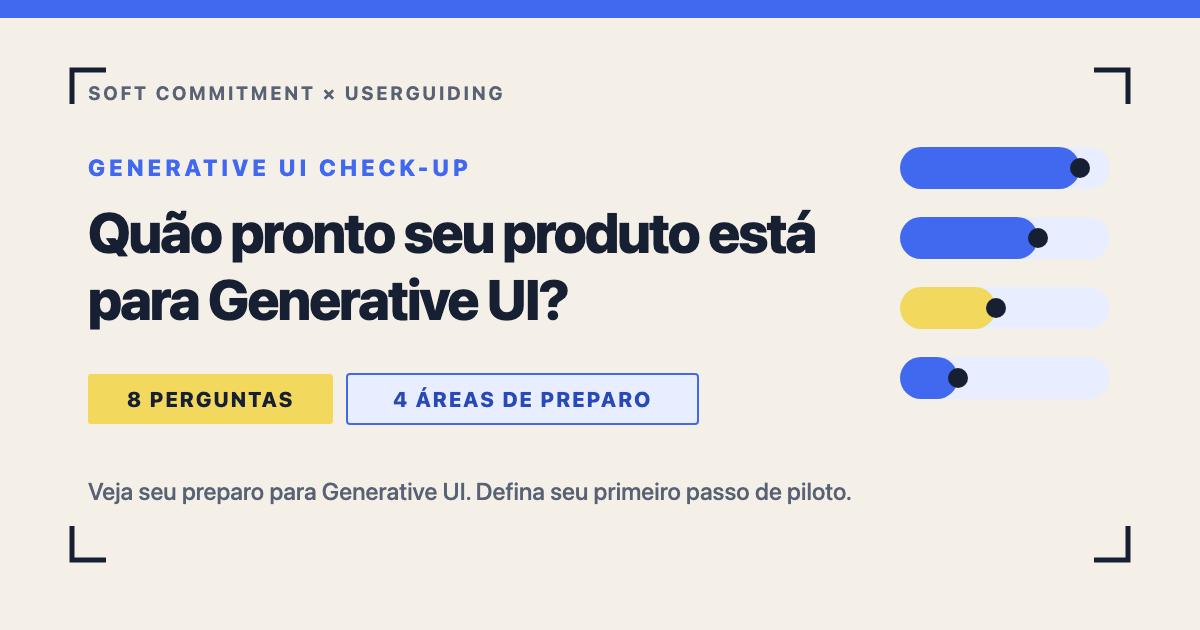
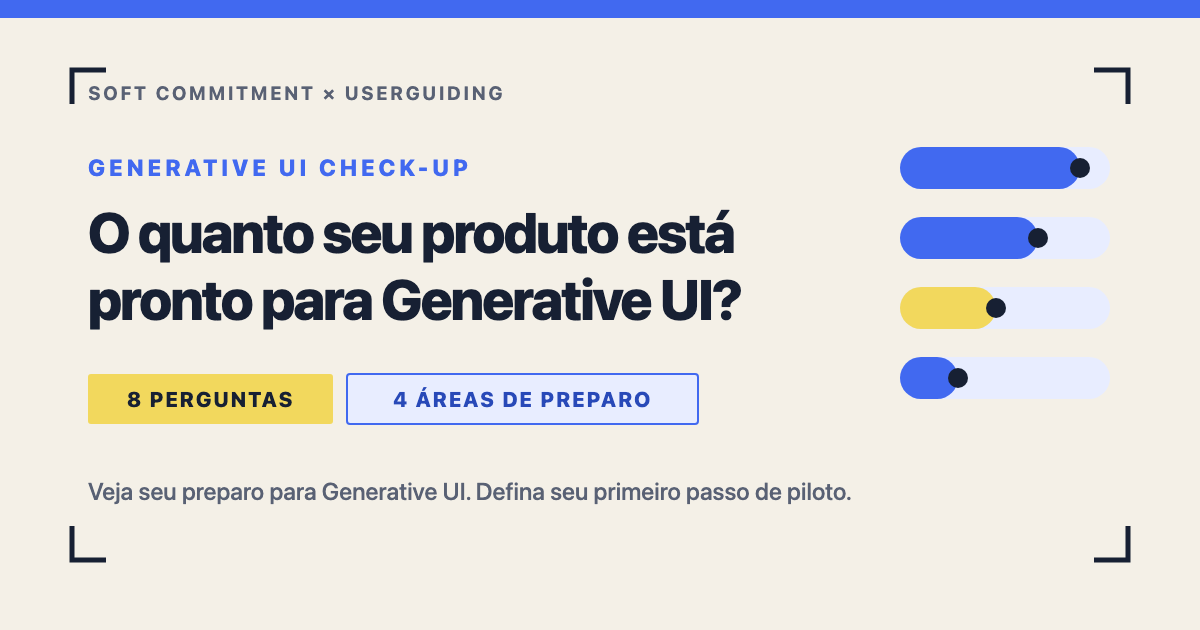
Red-team corrections to the English and Portuguese copy
Two adversarial reviewers read both builds against the Turkish source and walked the live
pages. 40 defects fixed, 3 findings rejected, 4 inherited issues left alone and written up
for a separate decision.

The one that mattered most was mine. Shortening the A3 summary to fix the card overflow in
the last commit turned "the system does not know the features independently of the menu"
into "outside the menu", which is a different claim: the archetype is about a missing
menu-independent catalog, not about features sitting outside a menu. Restored, and this
time it fits with 34.4px of margin rather than being traded away for length.

English, the substantive ones:

- "güvence altına almak" was calqued as "secure" across five recommendations, producing
  "secure the explanation" and "secure the ability". Worse, q5 and q6 are the only two
  lines reachable at a perfect score, so every all-maximum user read one of them.
- q4's options said "is available" where the Turkish says "kullanılabiliyor", can be used.
  A team that stores role and plan data but never reads it at render time would have
  scored readiness it does not have.
- "yetkiler" became "entitlements" in the one place it appears, against "permissions" in
  the six others. In SaaS that word means billing, and it sat in the top option of a ladder.
- The landing and task screens carried the same "Start the Check-up" button. Turkish
  distinguishes başlat from başla.

Portuguese, the substantive ones:
[…]

Changed region(s): [[0.0925, 0.3317, 0.6783, 0.5127]]

diff --git a/pt-br/js/questions.js b/pt-br/js/questions.js
@@ -33,7 +33,7 @@ export const QUESTIONS = deepFreeze([
       "Não mudam: todo mundo usa os mesmos passos e a mesma tela",
       "A estrutura continua a mesma; só o conteúdo ou a prioridade muda",
       "O papel do usuário ou o estado do produto muda alguns componentes e a ordem dos passos",
-      "Exige uma tela de trabalho variável: objetivo, papel e estado ao vivo mudam boa parte da tela"
+      "Exige uma tela de trabalho variável: objetivo, papel e estado atual mudam boa parte da tela"
     ],
     help: {
       label: "O que é uma tela de trabalho variável?",
@@ -45,7 +45,7 @@ export const QUESTIONS = deepFreeze([
     dimension: "valueFit",
     text: "Qual é o impacto dessa tarefa no usuário e no resultado de negócio?",
     options: [
-      "É feita raramente; o impacto é mais visual",
+      "É feita raramente; o impacto é mais cosmético",
       "Se repete, mas tem impacto baixo no usuário ou no resultado de negócio",
       "É feita com frequência, tem vários passos e afeta um resultado importante",
       "É uma das tarefas críticas do usuário; importa diretamente para activation, retention ou revenue"
@@ -58,7 +58,7 @@ export const QUESTIONS = deepFreeze([
   {
     id: "q3",
     dimension: "systemReadiness",
-    text: "Quanto as telas atuais do produto que apoiam essa tarefa são feitas de componentes reutilizáveis?",
+    text: "O quanto as telas que hoje dão suporte a essa tarefa são feitas de componentes reutilizáveis?",
     options: [
       "As telas foram escritas sob medida para cada página; as partes estão fortemente acopladas",
       "Existem blocos visuais comuns; o comportamento deles ainda depende da página",
@@ -76,9 +76,9 @@ export const QUESTIONS = deepFreeze([
     text: "Durante essa tarefa, quais sinais de contexto confiáveis seu produto usa para escolher o conteúdo ou o fluxo certo?",
     options: [
       "Fora da página em que o usuário está, nenhum sinal relevante é usado",
-      "Dá para usar papel, plano ou dados da conta",
-      "Além disso, dá para usar o estado ao vivo do produto e as ações recentes do usuário",
-      "Dá para usar em conjunto o objetivo declarado do usuário, o estado ao vivo, o histórico autorizado e as permissões"
+      "Papel, plano ou dados da conta podem ser usados",
+      "Além disso, o estado atual do produto e as ações recentes do usuário podem ser usados",
+      "O objetivo declarado do usuário, o estado atual, o histórico autorizado e as permissões podem ser usados em conjunto"
     ],
     help: {
       label: "O que é um sinal de contexto?",
@@ -90,14 +90,14 @@ export const QUESTIONS = deepFreeze([
     dimension: "controlSafety",
     text: "Quando o usuário cai numa tela errada, irrelevante ou inesperada durante essa tarefa, como ele se recupera?",
     options: [
-      "Ele não consegue ver por que a tela mudou; não existe um caminho de volta confiável",
+      "Ele não consegue ver por que a tela mudou; não existe um retorno seguro confiável",
       "Ele pode voltar ou recomeçar o fluxo do zero",
       "Ele vê o motivo da mudança e pode trocar a escolha ou voltar para a tela padrão",
       "Existe retorno seguro: o usuário pode pré-visualizar a tela, editar a escolha, resetar ou voltar ao fluxo padrão"
     ],
     help: {
       label: "O que é retorno seguro?",
-      body: "Retorno seguro é o caminho confiável para onde o usuário volta quando uma tela inesperada ou um fluxo não funciona. A visualização anterior, a tela padrão do produto, a opção de editar ou a de resetar são o que sustentam essa confiança."
+      body: "Retorno seguro é o caminho confiável para onde o usuário volta quando uma tela inesperada ou um fluxo não funciona. A visualização anterior, a tela padrão do produto, a opção de editar ou a de resetar são o que sustenta essa confiança."
     }
   },
   {
@@ -107,7 +107,7 @@ export const QUESTIONS = deepFreeze([
     options: [
       "A ação é executada direto",
       "Uma tela de confirmação padrão é exibida",
-      "Há checagem de permissão e resumo da ação; existe desfazer ou registro da operação",
+      "Há checagem de permissão e resumo da ação; existe a opção de desfazer ou registro da operação",
       "Só ações aprovadas previamente, com pré-visualização, permissão, regra de negócio e registro de auditoria"
     ],
     help: {
@@ -133,9 +133,9 @@ export const QUESTIONS = deepFreeze([
   {
     id: "q8",
     dimension: "discoveryResilience",
-    text: "Se uma funcionalidade necessária para essa tarefa não está visível na tela naquele momento, como o usuário a encontra hoje?",
+    text: "Se uma funcionalidade necessária para essa tarefa não estiver visível na tela naquele momento, como o usuário a encontra hoje?",
     options: [
-      "Só busca se souber o nome da funcionalidade, ou pergunta para o time de support",
+      "Só busca se souber o nome da funcionalidade, ou pergunta para o time de suporte",
       "Consegue encontrar na documentação ou na busca",
       "Consegue descobrir por uma central dentro do produto, navegável e independente da tela",
       "A descobribilidade vem por mais de um caminho: central navegável no produto, indicação conforme o contexto e volta aos itens usados recentemente"
@@ -316,7 +316,7 @@ export const ARCHETYPE_CONTENT = deepFreeze({
   problem_seeking_genui: {
     title: "ACHE A TAREFA CERTA PRIMEIRO",
     summary: "A ideia de Generative UI existe, mas ainda não está claro em qual tarefa do usuário ela vai gerar valor mensurável.",
-    experiment: "Escolha uma única tarefa. Valide em cinco entrevistas com usuários se os passos de que usuários novos e experientes precisam mudam mesmo."
+    experiment: "Escolha uma única tarefa. Valide em cinco entrevistas se os passos que usuários novos e experientes precisam seguir realmente mudam."
   },
   idea_ready_ground_not: {
     title: "TEM CASO DE USO, FALTA BASE",
@@ -325,18 +325,18 @@ export const ARCHETYPE_CONTENT = deepFreeze({
   },
   composition_ready_catalog_blind: {
     title: "TELA PRONTA, CATÁLOGO AUSENTE",
-    summary: "A base técnica para montar a tela dinamicamente é forte. Mas o sistema não conhece as funcionalidades fora do menu, e o que não aparece pode deixar de existir para o usuário.",
-    experiment: "Para uma área do produto, monte um catálogo de funcionalidades pesquisável e fora do menu. Depois teste se uma funcionalidade oculta é reencontrada."
+    summary: "A base técnica para montar a tela dinamicamente é forte. Mas falta um catálogo de funcionalidades independente do menu, e o que não aparece pode sumir para o usuário.",
+    experiment: "Para uma área do produto, monte um catálogo de funcionalidades pesquisável e independente do menu. Depois teste se o usuário reencontra uma funcionalidade oculta."
   },
   pilot_ground_discovery_partial: {
     title: "PILOTO POSSÍVEL, FALTA DESCOBERTA",
-    summary: "Um piloto estreito de Generative UI é possível. Mas a descoberta de funcionalidades, ou pelo menos uma das outras áreas de preparo, ainda está incompleta; o piloto não pode ofuscar a navegação permanente.",
-    experiment: "Adapte uma única tarefa. No mesmo piloto, meça a conclusão da tarefa, a volta à tela padrão e a busca por funcionalidades ocultas."
+    summary: "Um piloto restrito de Generative UI é possível. Mas a descoberta de funcionalidades, ou pelo menos uma das outras áreas de preparo, ainda está incompleta; o piloto não pode ofuscar a navegação permanente.",
+    experiment: "Adapte uma única tarefa. No mesmo piloto, meça a conclusão da tarefa, a volta à tela padrão e se as funcionalidades ocultas são encontradas."
   },
   controlled_trial_ground: {
     title: "PRONTO PARA UM PILOTO CONTROLADO",
     summary: "Pelas suas respostas, você tem base para um piloto de Generative UI limitado a uma única tarefa, mensurável e reversível. Este resultado não é uma aprovação para colocar o produto em produção.",
-    experiment: "Escolha uma única tarefa e um segmento de usuários. Limite as permissões, preserve a tela permanente e rode o piloto atrás de um feature flag."
+    experiment: "Escolha uma única tarefa e um segmento de usuários. Limite as permissões, preserve a tela padrão e rode o piloto atrás de uma feature flag."
   }
 });
 
@@ -352,7 +352,7 @@ export const STRENGTH_COPY = deepFreeze({
   q5: "O usuário entende a tela gerada, consegue alterá-la e consegue voltar para a tela padrão.",
   q6: "As ações críticas estão protegidas por permissão, pré-visualização e registro de auditoria.",
   q7: "Seu catálogo de funcionalidades independe do menu principal e pode ser lido pelo sistema.",
-  q8: "Mesmo quando o Generative UI não as mostra, o usuário consegue reencontrar as funcionalidades.",
+  q8: "Mesmo quando o Generative UI não mostra as funcionalidades, o usuário consegue reencontrá-las.",
   fallback: "Seu primeiro passo no preparo para Generative UI está claro: antes de escolher um piloto, defina o problema de uso principal e os limites de segurança."
 });
 
@@ -414,7 +414,7 @@ export const UI_COPY = deepFreeze({
   handoffFailed: "Não foi possível preparar seu cartão de resultado. Mesmo assim, você pode compartilhar o texto do post por aqui.",
   handoffAction: "Ir para o LinkedIn",
   handoffCardAlt: "Seu cartão de resultado",
-  colophon: "Feito em parceria por Soft Commitment x UserGuiding.",
+  colophon: "Uma parceria Soft Commitment x UserGuiding.",
   popupBlocked: "O navegador bloqueou a nova aba. Seu texto continua aqui; você pode abrir o LinkedIn pelo botão abaixo.",
   popupBlockedAction: "Abrir o LinkedIn",
   shareCancelled: "O compartilhamento foi cancelado. Seu texto continua aqui; quando quiser, é só tentar de novo.",
@@ -432,7 +432,7 @@ export const CARD_COPY = deepFreeze({
   eyebrow: "GENERATIVE UI CHECK-UP",
   lockupLeft: "Soft Commitment",
   lockupRight: "UserGuiding",
-  nextLabelSource: "Primeiro piloto de Generative UI",
+  nextLabelSource: "Sugestão de primeiro piloto de Generative UI",
   footerStrong: "Resumo do preparo para Generative UI.",
   footerNote: "Autoavaliação de 8 perguntas.",
   footerUrlTop: "games.userguiding.com/",
@@ -458,7 +458,7 @@ export const CARD_COPY = deepFreeze({
  */
 export const SHARE_COPY = deepFreeze({
   title: "Meu resultado no Generative UI Check-up",
-  text: "Meu resultado no Generative UI Check-up: {archetype}\n\nO Check-up está aqui: {url}\n\nTarefa que avaliei: {task}\n\nMinha base forte hoje:\n{strength}\n\nMeu primeiro passo de piloto:\n{experiment}\n\nQuão pronto você acha que seu produto está para Generative UI?",
+  text: "Meu resultado no Generative UI Check-up: {archetype}\n\nO Check-up está aqui: {url}\n\nTarefa que avaliei: {task}\n\nOnde eu já estou bem:\n{strength}\n\nMeu primeiro passo no piloto:\n{experiment}\n\nO quanto você acha que seu produto está pronto para Generative UI?",
   taskLine: "Tarefa que avaliei: {task}",
   url: "https://games.userguiding.com/generative-ui-checkup/pt-br/?utm_source=generative_ui_checkup"
 });

diff --git a/en/js/questions.js b/en/js/questions.js
@@ -58,7 +58,7 @@ export const QUESTIONS = deepFreeze([
   {
     id: "q3",
     dimension: "systemReadiness",
-    text: "How far are the current product screens behind this task built from reusable components?",
+    text: "How much of the product UI behind this task is built from reusable components?",
     options: [
       "Screens are written per page, and the parts are tightly coupled to each other",
       "There are shared visual blocks, but their behavior is still tied to the page",
@@ -76,9 +76,9 @@ export const QUESTIONS = deepFreeze([
     text: "During this task, which reliable context signals does your product use to pick the right content or flow?",
     options: [
       "Nothing meaningful beyond the page the user is on",
-      "Role, plan or account information is available",
-      "On top of that, live product state and recent user activity are available",
-      "Stated user intent, live state, permitted history and entitlements are all available together"
+      "Role, plan or account information can be used",
+      "On top of that, live product state and recent user activity can be used",
+      "Stated user intent, live state, consented history and permissions can all be used together"
     ],
     help: {
       label: "What is a context signal?",
@@ -92,7 +92,7 @@ export const QUESTIONS = deepFreeze([
     options: [
       "They cannot see why the screen changed, and there is no reliable way back",
       "They can back out or start the flow over",
-      "They can see why it changed, and can change their choice or return to the standard UI",
+      "They can see why it changed, and can change their choice or return to the standard screen",
       "There is a safe fallback: the user can preview the screen, edit their choice, reset it, or return to the standard flow"
     ],
     help: {
@@ -123,7 +123,7 @@ export const QUESTIONS = deepFreeze([
       "There is no current inventory of what the product can actually do",
       "The knowledge sits scattered across documentation and across teams",
       "There is a current feature catalog with an owner and a target user for each entry",
-      "The feature catalog is current and searchable, and is linked to roles, permissions and prerequisites"
+      "A feature catalog that is current and searchable, and linked to roles, permissions and prerequisites"
     ],
     help: {
       label: "What is a feature catalog?",
@@ -135,7 +135,7 @@ export const QUESTIONS = deepFreeze([
     dimension: "discoveryResilience",
     text: "If a feature this task needs is not visible on screen at that moment, how does a user find it today?",
     options: [
-      "Only by searching for it if they already know its name, or by asking the support team",
+      "Only if they already know the feature's name, or by asking the support team",
       "They can find it in the documentation or through search",
       "They can discover it from a browsable in-product hub that is independent of the screen",
       "Discoverability comes through several routes: a browsable product hub, contextual pointers, and a way back to recently used items"
@@ -257,7 +257,7 @@ export const TASK_COPY = deepFreeze({
   placeholder: "Example: a new user creating their first project",
   helper: "Keep it short and generic; do not include a customer or company name.",
   counterTemplate: "{count}/80",
-  errorTooShort: "Write a task of at least 3 characters to continue.",
+  errorTooShort: "To continue, write a task of at least 3 characters.",
   errorTooLong: "A task can be at most 80 characters."
 });
 
@@ -319,9 +319,9 @@ export const ARCHETYPE_CONTENT = deepFreeze({
     experiment: "Pick one task. Run five user interviews to confirm that the steps new and experienced users need are genuinely different."
   },
   idea_ready_ground_not: {
-    title: "USE CASE YES, FOUNDATION NOT YET",
-    summary: "You can see a real use case for Generative UI. The component system, the context signals or the safe fallback layer are not yet enough for a pilot.",
-    experiment: "Pick one task with no critical actions. Build a prototype that runs on existing components and can fall back to the standard UI."
+    title: "USE CASE CLEAR, FOUNDATION NOT YET",
+    summary: "You can see a real use case for Generative UI. But the component system, the context signals or the safe fallback layer is not yet enough for a pilot.",
+    experiment: "Pick one task with no critical actions. Build a prototype that runs on existing components and can fall back to the standard screen."
   },
   composition_ready_catalog_blind: {
     title: "UI READY, NO FEATURE CATALOG",
@@ -331,7 +331,7 @@ export const ARCHETYPE_CONTENT = deepFreeze({
   pilot_ground_discovery_partial: {
     title: "PILOT POSSIBLE, DISCOVERY THIN",
     summary: "A narrow Generative UI pilot is possible. Feature discovery, or at least one of the other readiness areas, is still incomplete, so the pilot should not overshadow your permanent navigation.",
-    experiment: "Adapt a single task. In the same pilot, measure task success, returns to the standard UI, and whether hidden features get found."
+    experiment: "Adapt a single task. In the same pilot, measure task success, returns to the standard screen, and whether hidden features get found."
   },
   controlled_trial_ground: {
     title: "READY FOR A CONTROLLED PILOT",
@@ -349,7 +349,7 @@ export const STRENGTH_COPY = deepFreeze({
   q2: "The task you picked has a real impact on activation, retention or revenue.",
   q3: "Your component system is in a state where a screen can be reassembled safely.",
   q4: "You have reliable, permitted context signals for choosing the right screen.",
-  q5: "Users can understand a generated screen, change it, and get back to the standard UI.",
+  q5: "Users can understand a generated screen, change it, and get back to the standard screen.",
   q6: "Critical actions are protected by permissions, a preview and an audit log.",
   q7: "Your feature catalog is independent of the main menu and readable by a system.",
   q8: "Users can find features again even when Generative UI does not surface them.",
@@ -367,12 +367,12 @@ export const STRENGTH_COPY = deepFreeze({
 export const RECOMMENDATION_COPY = deepFreeze({
   q1: "Pin the pilot to a single user task, and verify by measurement that the screen it needs really does change when role or product state changes.",
   q2: "Tie the pilot to one measurable outcome connected to activation, retention or revenue, and track that outcome for the length of the pilot.",
-  q3: "During the pilot, secure the inputs, states, permissions and error behavior of every component in scope, in a form the system can read.",
+  q3: "During the pilot, pin down the inputs, states, permissions and error behavior of every component in scope, in a form the system can read.",
   q4: "Restrict the context signals the pilot may use to a list that is current, permitted and traceable to a source, and hold that limit for the whole pilot.",
-  q5: "In the pilot, secure the explanation of why a screen was shown, along with the routes to edit it, reset it and return to the standard flow.",
-  q6: "In the pilot, secure critical actions behind a permission check, a clear summary, a confirmation and an audit log.",
-  q7: "In the pilot, secure a feature catalog that is current, searchable and independent of the menu, with the owner, target user, permission and prerequisite for each entry.",
-  q8: "In the pilot, secure the ability to find features that are not on screen, through a searchable product hub, contextual pointers and a way back to recently used items."
+  q5: "Make sure the pilot explains why a screen was shown, and that the user can edit it, reset it or return to the standard flow.",
+  q6: "Keep critical actions in the pilot behind a permission check, a clear summary, a confirmation and an audit log.",
+  q7: "Keep the feature catalog current, searchable and independent of the menu through the pilot, with the owner, target user, permission and prerequisite for each entry.",
+  q8: "Through the pilot, keep features findable when they are off screen, with a searchable product hub, contextual pointers and a way back to recently used items."
 });
 
 /**
@@ -384,9 +384,9 @@ export const UI_COPY = deepFreeze({
   progress: "Question {current} / 8",
   next: "Continue",
   finish: "Show my result",
-  unansweredError: "Pick the option that is true for your product today to continue.",
+  unansweredError: "To continue, pick the option that is true for your product today.",
   resultError: "The result could not be calculated. Check your answers and try again.",
-  begin: "Start the Check-up",
+  begin: "Start the questions",
   taskLabel: "Assessed task",
   pilotScope: "Limit your first pilot to a reversible part of \u201C{task}\u201D that carries no critical actions.",
   cardPreparing: "Preparing your result card…",
@@ -414,7 +414,7 @@ export const UI_COPY = deepFreeze({
   handoffFailed: "Your result card could not be prepared. You can still share your post text from here.",
   handoffAction: "Go to LinkedIn",
   handoffCardAlt: "Your result card",
-  colophon: "Made together by Soft Commitment and UserGuiding.",
+  colophon: "A Soft Commitment x UserGuiding collaboration.",
   popupBlocked: "The browser blocked the new tab. Your text is still here, and you can open LinkedIn with the button below.",
   popupBlockedAction: "Open LinkedIn",
   shareCancelled: "Sharing was cancelled. Your text is still here, and you can try again when you are ready.",

diff --git a/pt-br/index.html b/pt-br/index.html
@@ -80,19 +80,19 @@
 <meta property="og:site_name" content="Soft Commitment x UserGuiding">
 <meta property="og:locale" content="pt_BR">
 <meta property="og:url" content="https://games.userguiding.com/generative-ui-checkup/pt-br/">
-<meta property="og:title" content="Quão pronto seu produto está para Generative UI?">
+<meta property="og:title" content="O quanto seu produto está pronto para Generative UI?">
 <meta property="og:description" content="8 perguntas. Quatro áreas de preparo. Um primeiro plano de piloto feito para você.">
 <!-- Absolute by requirement: crawlers do not resolve relative OG images. -->
 <meta property="og:image" content="https://games.userguiding.com/generative-ui-checkup/pt-br/assets/og-image.png">
 <meta property="og:image:width" content="1200">
 <meta property="og:image:height" content="630">
-<meta property="og:image:alt" content="Quão pronto seu produto está para Generative UI?">
+<meta property="og:image:alt" content="O quanto seu produto está pronto para Generative UI?">
 
 <meta name="twitter:card" content="summary_large_image">
-<meta name="twitter:title" content="Quão pronto seu produto está para Generative UI?">
+<meta name="twitter:title" content="O quanto seu produto está pronto para Generative UI?">
 <meta name="twitter:description" content="8 perguntas. Quatro áreas de preparo. Um primeiro plano de piloto feito para você.">
 <meta name="twitter:image" content="https://games.userguiding.com/generative-ui-checkup/pt-br/assets/og-image.png">
-<meta name="twitter:image:alt" content="Quão pronto seu produto está para Generative UI?">
+<meta name="twitter:image:alt" content="O quanto seu produto está pronto para Generative UI?">
 
 <link rel="stylesheet" href="./css/app.css">
 </head>
@@ -110,13 +110,13 @@
     <section class="screen" id="screen-landing" aria-labelledby="landing-heading">
       <div class="landing__copy">
         <p class="eyebrow">GENERATIVE UI CHECK-UP</p>
-        <h1 class="display" id="landing-heading" tabindex="-1">Quão pronto seu produto está para Generative UI?</h1>
+        <h1 class="display" id="landing-heading" tabindex="-1">O quanto seu produto está pronto para Generative UI?</h1>
         <!--
           The term is in the eyebrow and the headline before anything explains it, so this sits
           above the lede rather than below it. It is deliberately not .lede: the landing parity
           assertion locates `#screen-landing .lede` un-narrowed and a second one breaks it.
         -->
-        <p class="definition" id="landing-definition">Generative UI é a interface que a inteligência artificial monta conforme o que o usuário quer fazer naquele momento, no lugar de telas fixas.</p>
+        <p class="definition" id="landing-definition">Generative UI é a interface que a inteligência artificial monta conforme o que o usuário quer fazer naquele momento, em vez de telas fixas.</p>
         <p class="lede">Em 8 perguntas, avalie seu caso de uso, sua base técnica, seus limites de segurança e a descobribilidade das funcionalidades. No fim, veja por onde começar com Generative UI.</p>
         <p class="actions">
           <button class="button button--primary" type="button" data-action="start">Iniciar o Check-up</button>
@@ -240,7 +240,7 @@
       </section>
 
       <section class="block" aria-labelledby="experiment-heading">
-        <h2 class="block__title" id="experiment-heading">Primeiro piloto de Generative UI</h2>
+        <h2 class="block__title" id="experiment-heading">Sugestão de primeiro piloto de Generative UI</h2>
         <p class="block__body block__body--scope" id="result-pilot-scope"></p>
         <p class="block__body" id="result-experiment"></p>
       </section>
@@ -275,7 +275,7 @@
   </main>
 
   <footer class="colophon">
-    <p>Feito em parceria por Soft Commitment x UserGuiding.</p>
+    <p>Uma parceria Soft Commitment x UserGuiding.</p>
   </footer>
 
 </div>
@@ -285,7 +285,7 @@
     <h2 class="methodology__title" id="methodology-heading" tabindex="-1">Como esse resultado é calculado?</h2>
     <p>As oito perguntas medem quatro áreas separadas do preparo para Generative UI: caso de uso, preparo técnico, controle e segurança, descobribilidade. Cada área é avaliada à parte, de 0 a 6. Uma área forte não cobre a lacuna de outra; por isso não mostramos uma nota única.</p>
     <p>Seu tipo de resultado vem da avaliação dos limiares das quatro áreas em uma ordem definida. Depois, sua resposta mais forte define a sua base de hoje. Suas duas respostas mais baixas, ou em caso de empate exato as duas áreas de maior risco, definem os controles que você precisa garantir primeiro durante o piloto.</p>
-    <p>As perguntas foram escritas por Soft Commitment e UserGuiding para este trabalho. O resultado não é uma comparação de mercado nem uma análise automática do produto; é uma autoavaliação feita para que seu time consiga falar do preparo para Generative UI sob os mesmos títulos.</p>
+    <p>As perguntas foram escritas por Soft Commitment e UserGuiding para este trabalho. O resultado não é uma comparação de mercado nem uma análise automática do produto; é uma autoavaliação feita para que seu time consiga falar do preparo para Generative UI usando os mesmos critérios.</p>
     <p>O resultado é calculado apenas a partir das oito respostas que você escolheu. Não há conexão com o produto, análise de código nem uso de dados de clientes.</p>
     <p class="actions">
       <button class="button button--primary" type="button" data-action="methodology-close">Fechar</button>
@@ -296,7 +296,7 @@
 <dialog class="shareprep" id="share-dialog" aria-labelledby="share-dialog-heading">
   <div class="shareprep__inner">
     <div class="shareprep__copy">
-      <p class="eyebrow">COMPARTILHAR NO LINKEDIN</p>
+      <p class="eyebrow">SEU POST NO LINKEDIN</p>
       <h2 class="shareprep__title" id="share-dialog-heading" tabindex="-1">Prepare seu post do LinkedIn</h2>
       <!--
         Empty, and filled from UI_COPY.draftIntro / UI_COPY.draftLabel at boot. The hand-off

diff --git a/en/index.html b/en/index.html
@@ -117,11 +117,11 @@
           assertion locates `#screen-landing .lede` un-narrowed and a second one breaks it.
         -->
         <p class="definition" id="landing-definition">Generative UI is an interface that AI assembles around what the user is trying to do right now, instead of a fixed screen.</p>
-        <p class="lede">In 8 questions, assess your use case, your technical ground, your safety limits and how discoverable your features are. At the end, see where to start with Generative UI.</p>
+        <p class="lede">In 8 questions, assess your use case, your technical ground, your safety limits and your feature discoverability. At the end, see where to start with Generative UI.</p>
         <p class="actions">
           <button class="button button--primary" type="button" data-action="start">Start the Check-up</button>
         </p>
-        <p class="meta">About 2 minutes · Assess the product that runs today · No sign-in, no product connection</p>
+        <p class="meta">About 2 minutes · Assess the product you have today · No sign-in, no product connection</p>
         <p class="actions actions--quiet">
           <button class="link" type="button" data-action="methodology" data-source="landing">How is this calculated?</button>
         </p>
@@ -164,7 +164,7 @@
       <p class="lede">Leave out what sits on the roadmap and anything you would describe as “we could build it if we wanted to”. If you are torn between two options, pick the lower one you can prove.</p>
 
       <p class="actions">
-        <button class="button button--primary" type="button" data-action="begin" disabled>Start the Check-up</button>
+        <button class="button button--primary" type="button" data-action="begin" disabled>Start the questions</button>
       </p>
     </section>
 
@@ -283,8 +283,8 @@
 <dialog class="methodology" id="methodology" aria-labelledby="methodology-heading">
   <div class="methodology__inner">
     <h2 class="methodology__title" id="methodology-heading" tabindex="-1">How is this result calculated?</h2>
-    <p>The eight questions measure four separate areas of Generative UI readiness: use case fit, technical readiness, control and safety, discoverability. Each area is scored on its own from 0 to 6. A strong area does not cover a gap in another one, which is why we do not show a single total score.</p>
-    <p>Your result type comes from evaluating the thresholds across those four areas in a set order. Your strongest answer then sets the ground you have today. Your two lowest answers, or on an exact tie the two highest-risk areas, set the controls to secure first during the pilot.</p>
+    <p>The eight questions measure four separate areas of Generative UI readiness: use case fit, technical readiness, control and safety, discoverability. Each area is scored on its own from 0 to 6. A strong area does not make up for a gap in another one, which is why we do not show a single total score.</p>
+    <p>Your result type comes from checking each area against its thresholds, in a fixed order. Your strongest answer then defines the foundation you have today. Your two lowest answers, or on an exact tie the two highest-risk areas, set the controls to lock in first during the pilot.</p>
     <p>Soft Commitment and UserGuiding wrote the questions for this project. The result is not an industry benchmark and not an automated product review. It is a self-assessment, built so your team can talk about Generative UI readiness under the same headings.</p>
     <p>The result is calculated from the eight answers you pick and nothing else. No product connection, no code analysis, no customer data.</p>
     <p class="actions">
